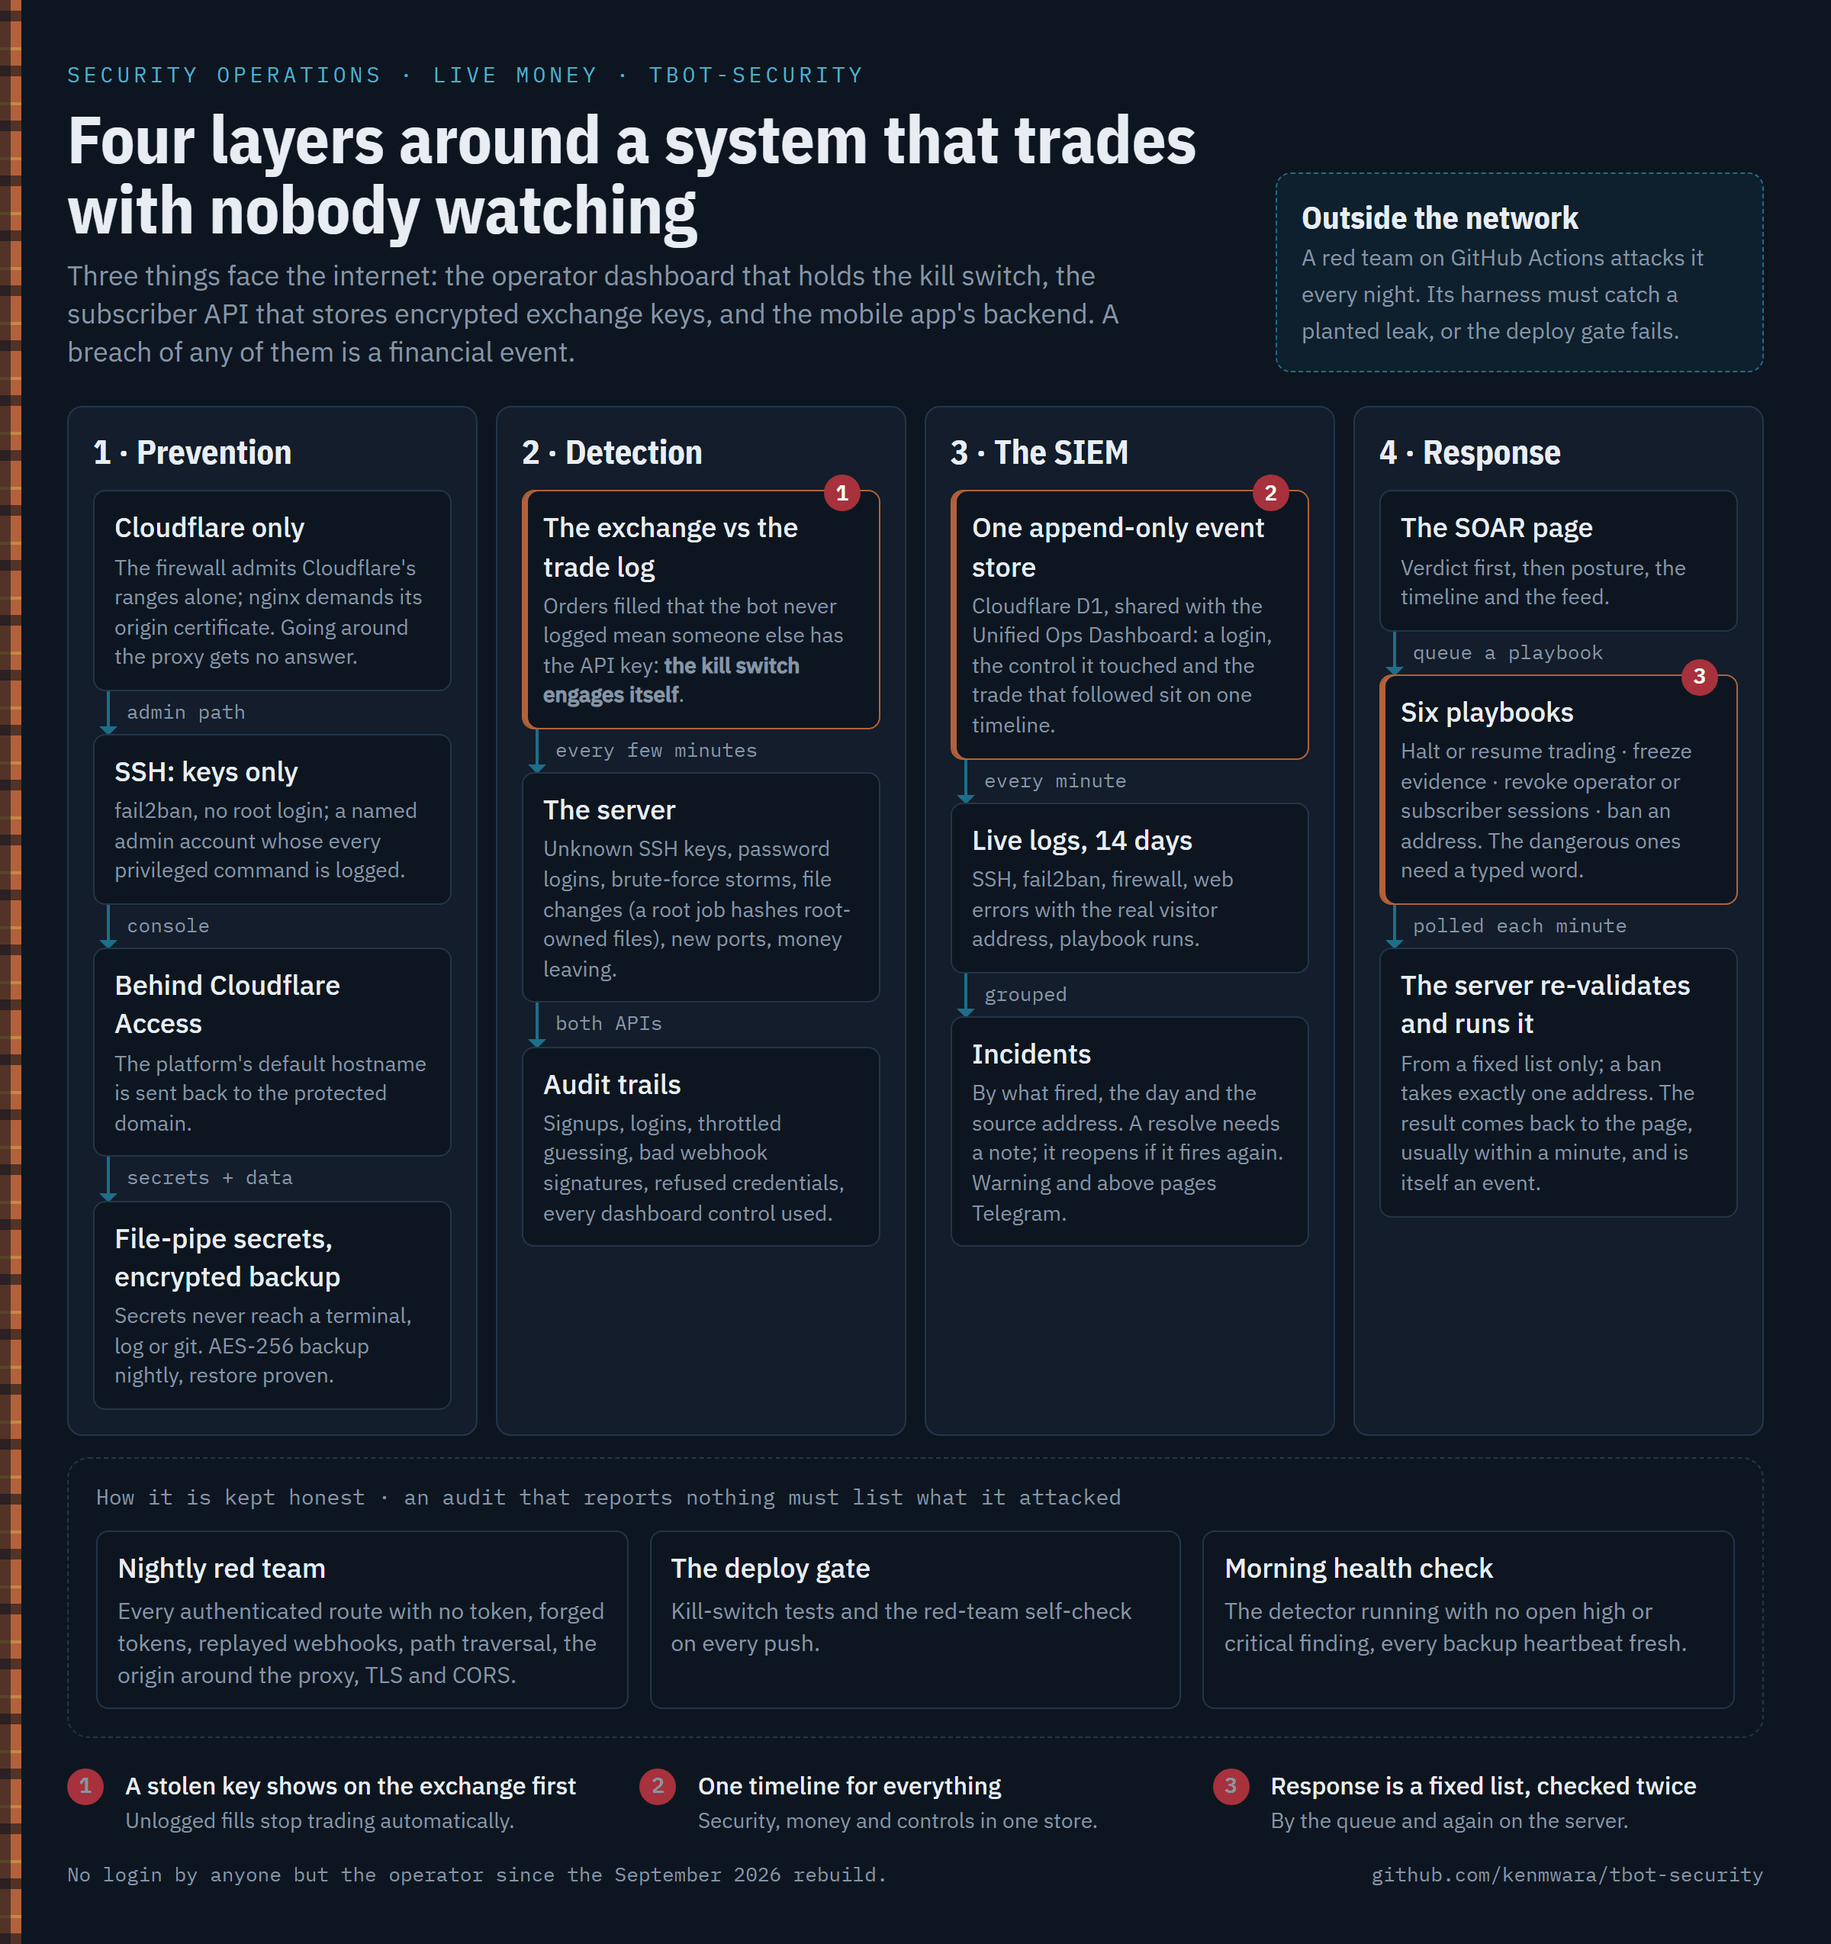
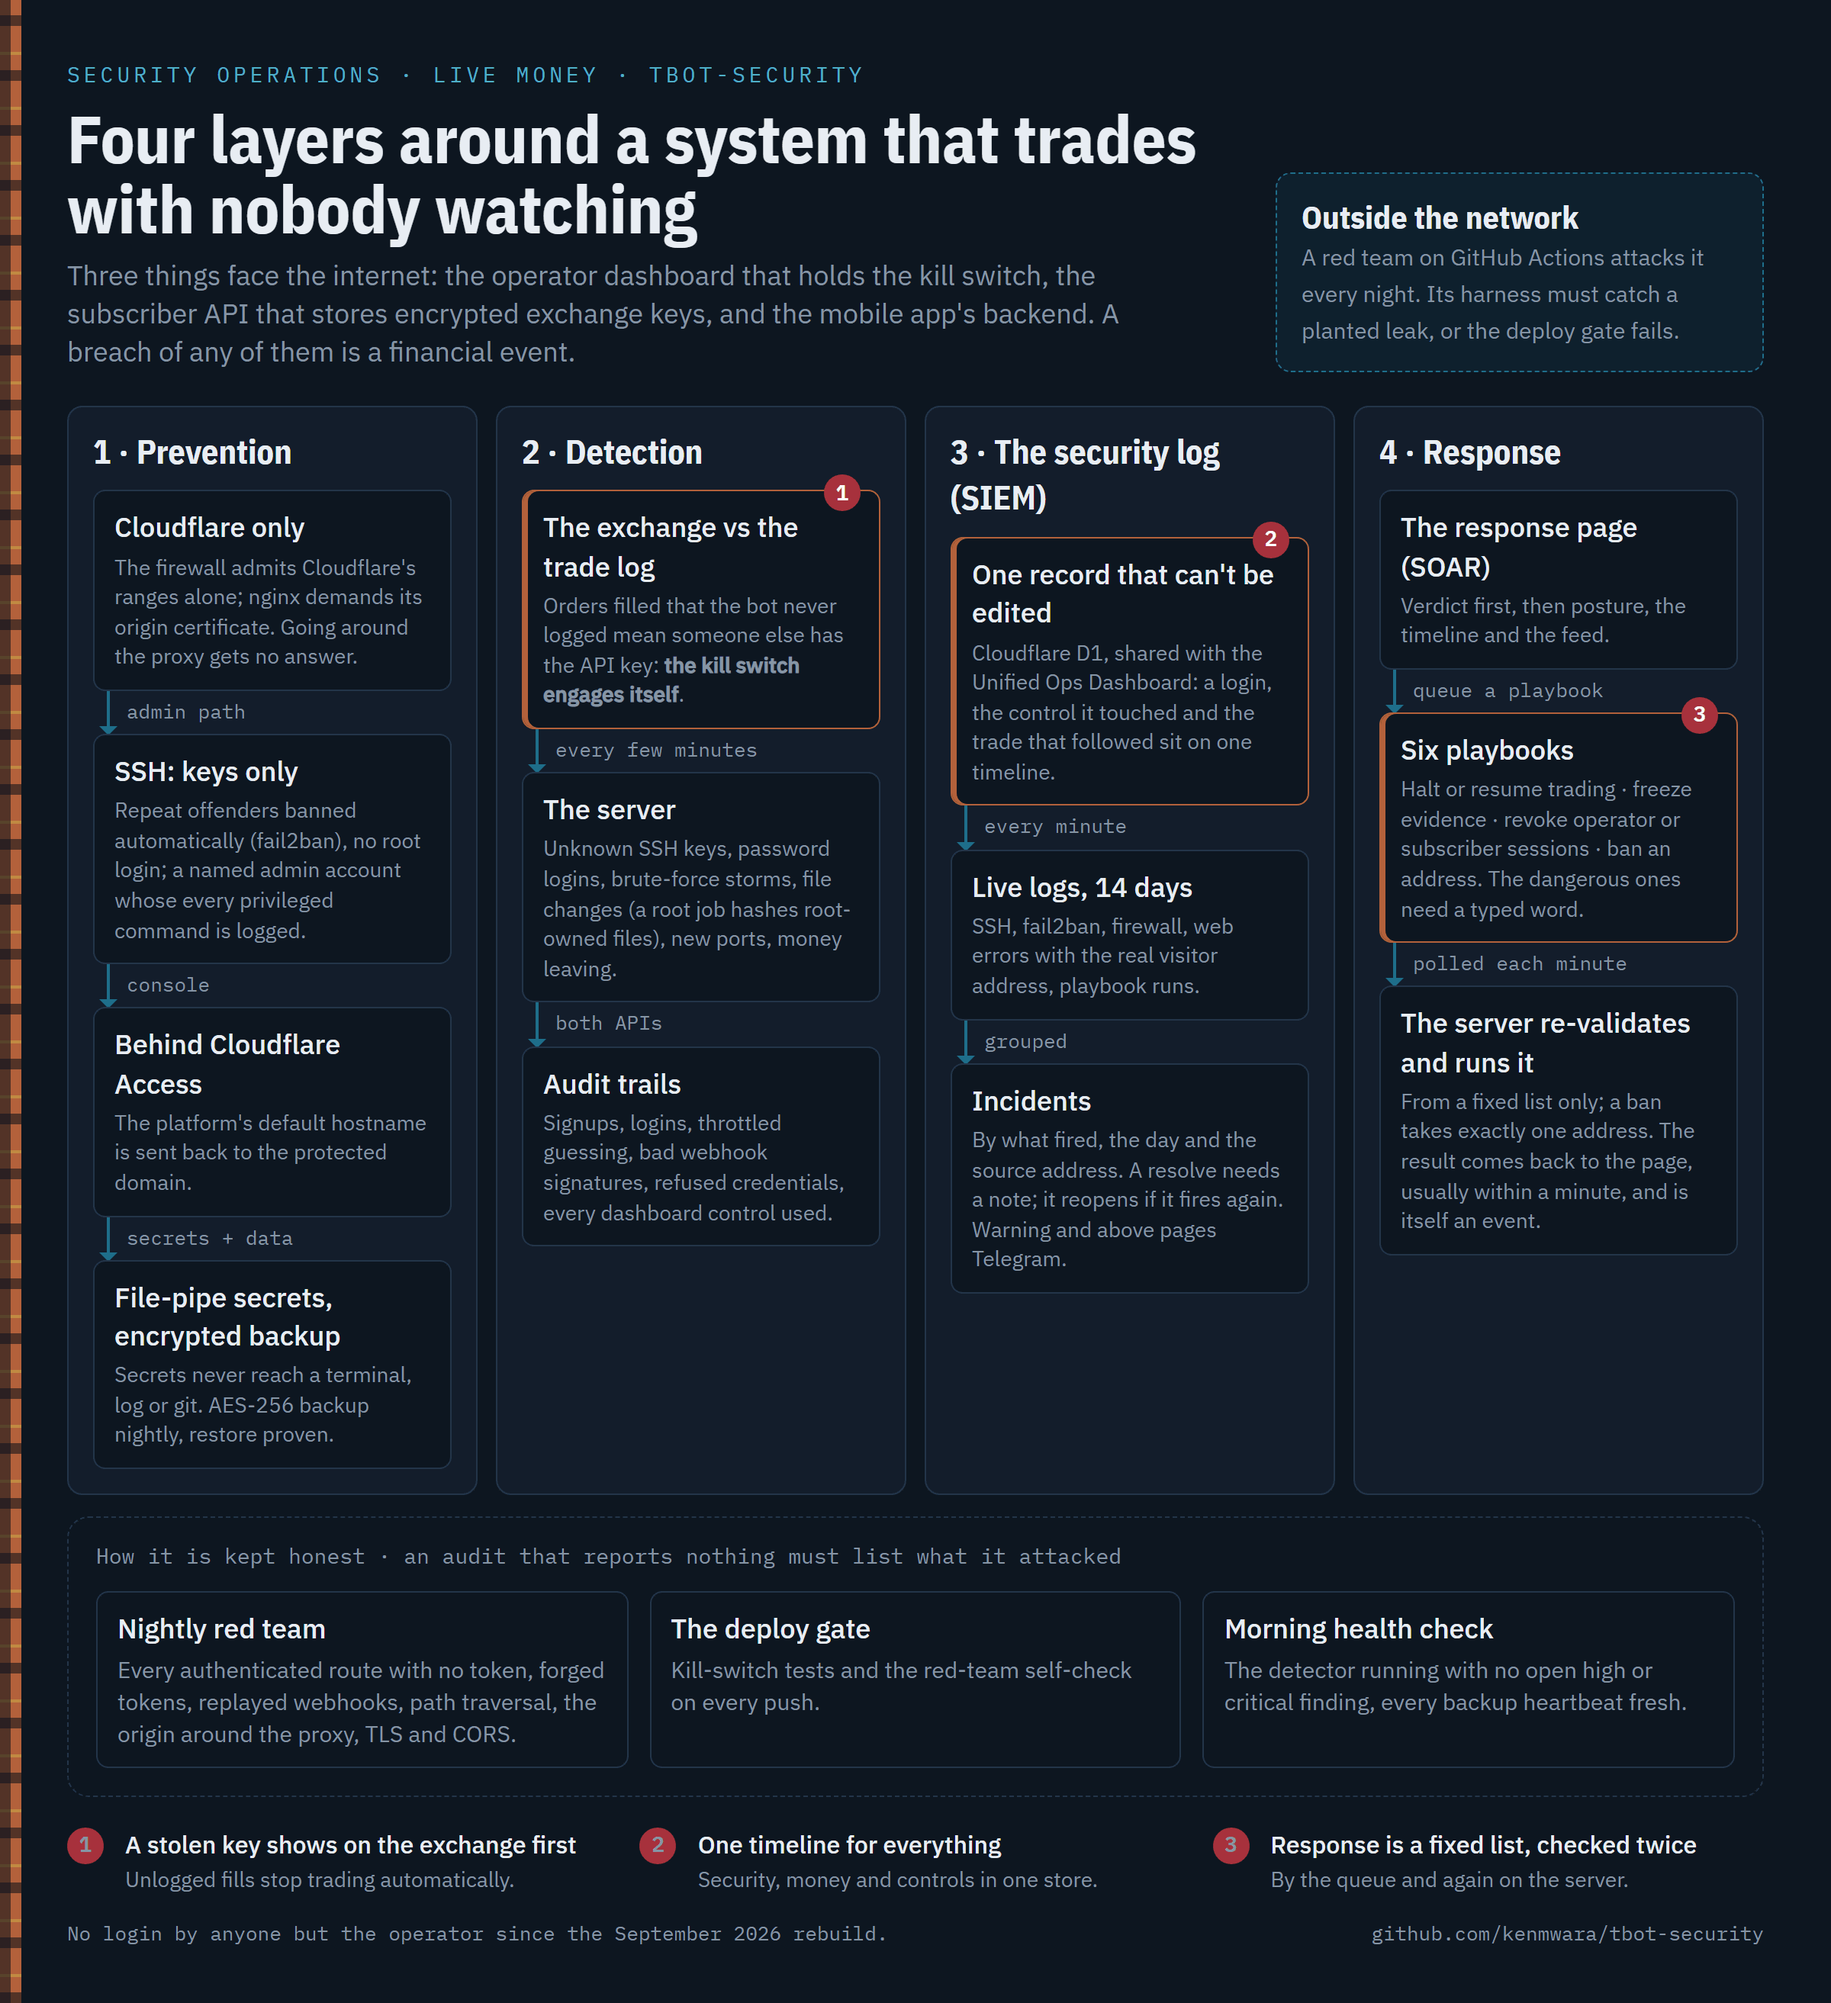
docs: plain-English architecture diagram and README wording (audit 28 Oct)

diff --git a/README.md b/README.md
@@ -45,7 +45,7 @@
 ## The four layers
 
 
-<img src="images/architecture.png" width="100%" alt="Architecture diagram of T BOT's security operations in four layers. Prevention: the server answers only Cloudflare (firewall plus origin certificate), SSH is key-only behind fail2ban with no root login, the console sits behind Cloudflare Access, secrets move by file pipe and backups are AES-256 encrypted with a nightly proven restore. Detection: the exchange's record is reconciled against the trade log, and unlogged fills engage the kill switch automatically; the server is checked every few minutes for unknown keys, password logins, brute force, file changes, new ports and money leaving; both APIs write audit trails. The SIEM: one append-only Cloudflare D1 event store shared with the Unified Ops Dashboard, live logs kept 14 days, incidents grouped by what fired, day and address, warnings paging Telegram. Response: the SOAR page queues one of six fixed playbooks, which the server re-validates and runs within about a minute. Kept honest by a nightly red team from GitHub Actions, the deploy gate and a morning health check.">
+<img src="images/architecture.png" width="100%" alt="Architecture diagram of T BOT's security operations in four layers. Prevention: the server answers only Cloudflare (firewall plus origin certificate), SSH is key-only behind fail2ban with no root login, the console sits behind Cloudflare Access, secrets move by file pipe and backups are AES-256 encrypted with a nightly proven restore. Detection: the exchange's record is reconciled against the trade log, and unlogged fills engage the kill switch automatically; the server is checked every few minutes for unknown keys, password logins, brute force, file changes, new ports and money leaving; both APIs write audit trails. The SIEM: one can't-be-edited Cloudflare D1 event store shared with the Unified Ops Dashboard, live logs kept 14 days, incidents grouped by what fired, day and address, warnings paging Telegram. Response: the SOAR page queues one of six fixed playbooks, which the server re-validates and runs within about a minute. Kept honest by a nightly red team from GitHub Actions, the deploy gate and a morning health check.">
 
 **1. Prevention.** The trading server answers only Cloudflare: the firewall admits web traffic from Cloudflare's published ranges alone, and the web server demands Cloudflare's origin-pull client certificate, so going around the proxy to the server's address gets no answer. SSH is key-only behind fail2ban, and root cannot log in over it at all: administration goes through a named account whose every privileged command is logged into the SIEM. The operator console sits behind Cloudflare Access, and a small edge function sends the hosting platform's own default hostname back to the protected domain. The response tooling runs as an unprivileged user whose sudo rights cover exactly one command. Secrets move through a file pipe and never reach a terminal, a log or git. A nightly AES-256 encrypted backup lands in a private repository, and its restore is proven every night rather than assumed.
 
@@ -95,7 +95,7 @@ The dangerous ones need a typed confirmation word. The page can only queue a pla
 - **A reboot looked like an intrusion.** The detector ran mid-shutdown, saw the web server's ports closed, dropped them from its baseline, and paged "new listening port" three times when they came back. Known ports now stay known, and the deploy gate replays a reboot and fails on the old logic.
 - **The web logs saw the wrong visitor.** nginx only ever sees Cloudflare's edge, so every web line carried a Cloudflare address. The application already receives the real one in a header, so it now writes the security-relevant requests itself, with the real address and country.
 - **Closing root SSH also closed the provider's web console.** The hosting provider's browser console turned out to be SSH underneath: its agent writes a temporary key into the account's key file and connects from the provider's relays. With root refused, the console failed, and its key write set off a critical file-integrity alert. Nobody got in, and the logs showed both the refused logins and the agent's own key writes. The fix was a named admin account plus a non-SSH recovery console as break-glass, and the lesson is to map every path that depends on a control before switching it off.
-- **The loudest attacker on the map's first day was the platform's own red team.** 318 of the day's refused requests came from the nightly self-attack harness, and "hostile" was the wrong word for search crawlers collecting 404s. The map now leaves out our own addresses and the red team and says "refused or blocked", so every number is traffic the server actually turned away. Its query is cached, because a view that recounted the log on every refresh had already taken the event store to its daily read limit once.
+- **The loudest attacker on the map's first day was the platform's own red team.** 318 of the day's refused requests came from the nightly self-attack harness, and "hostile" was the wrong word for search crawlers collecting 404s. The map now leaves out the platform's own addresses and the red team and says "refused or blocked", so every number is traffic the server actually turned away. Its query is cached, because a view that recounted the log on every refresh had already taken the event store to its daily read limit once.
 - **A confirmation dialog could hang.** The browser's dialog `close` event was deferred while the page was hidden, so a confirmation could wait forever. The console now resolves on the form's own submit and cancel events.
 
 ## The record so far
@@ -104,4 +104,4 @@ Since the September 2026 rebuild the auth logs show thousands of automated SSH a
 
 ---
 
-*Built by [Ken Mwara](https://github.com/kenmwara). The trading system it protects: [T BOT](https://github.com/kenmwara/tbot). The event store it runs on: [Unified Ops Dashboard](https://github.com/kenmwara/unified-ops-dashboard).*
+*Built by [Ken Kariuki](https://github.com/kenmwara). The trading system it protects: [T BOT](https://github.com/kenmwara/tbot). The event store it runs on: [Unified Ops Dashboard](https://github.com/kenmwara/unified-ops-dashboard).*
